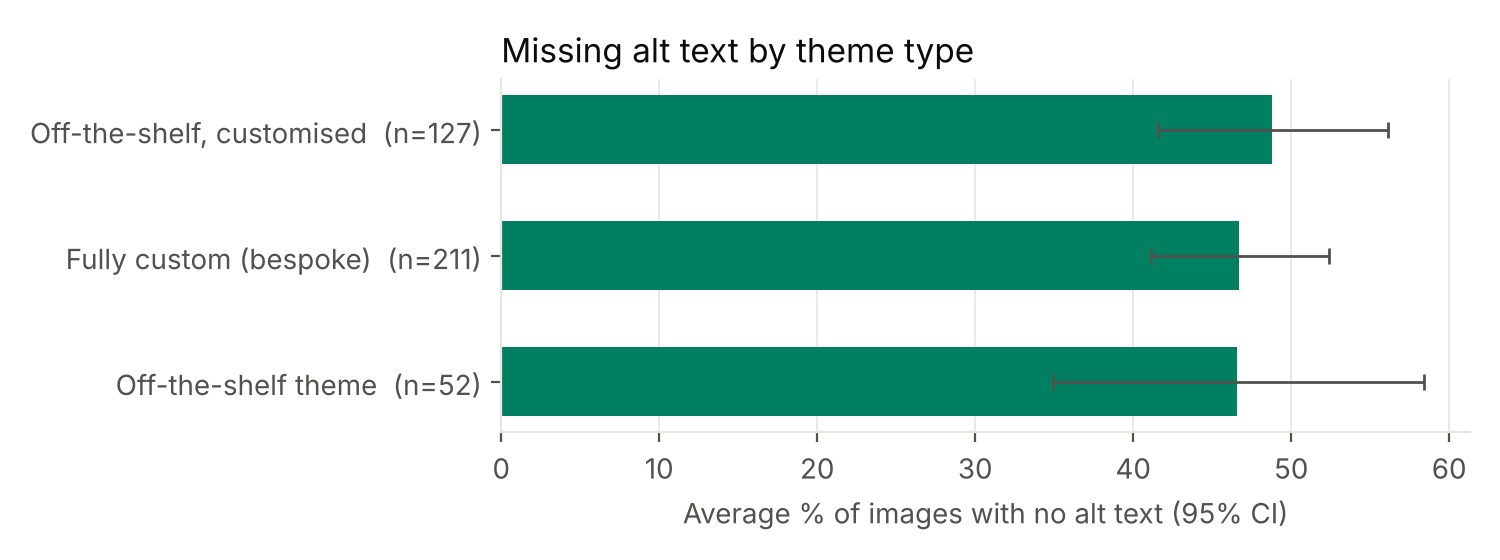
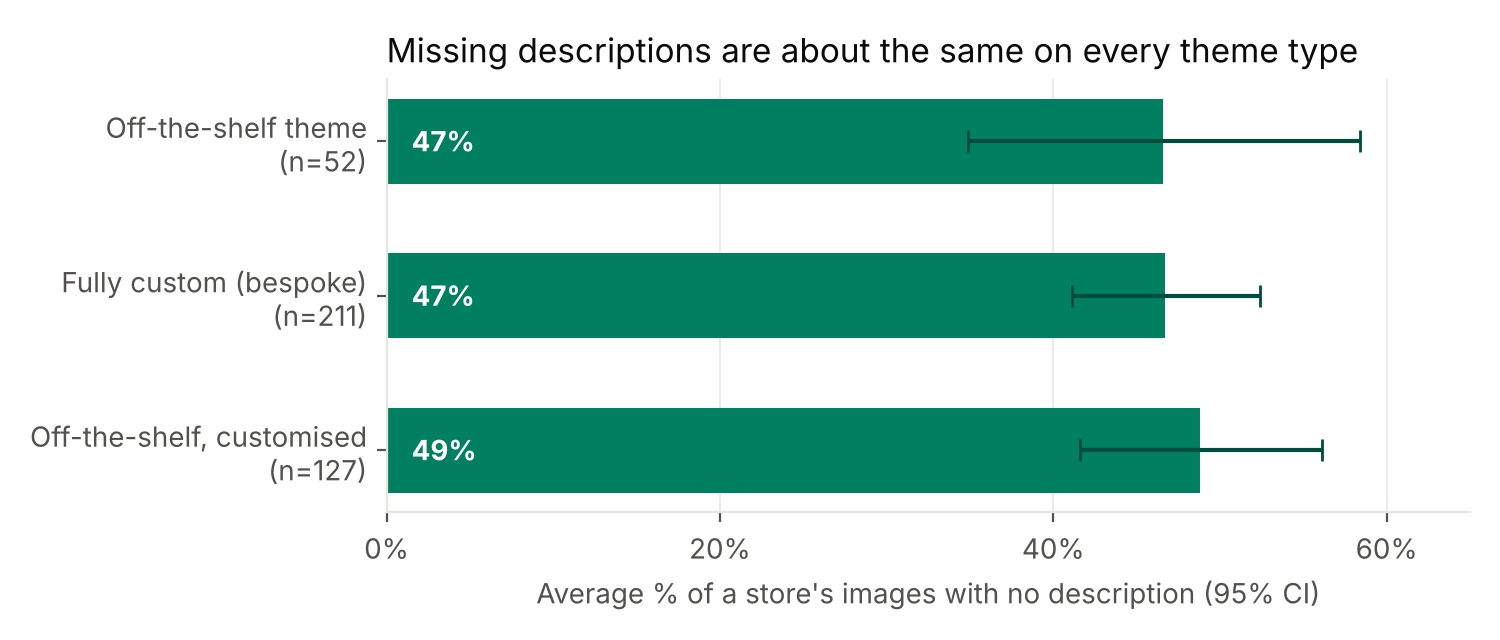
add theme chart to readme

diff --git a/README.md b/README.md
@@ -94,6 +94,8 @@ Share of stores where axe-core detected at least one barrier:
 #### 🧩 3. It's a merchant habit, not a theme problem
 With 12 stores, off-the-shelf themes looked twice as good. With 52, the effect disappeared. A regression on 390 stores (theme, store size, brand vs. smaller merchant, category) found no significant predictors *(all p > 0.4, R² = 0.09)*. So the fix belongs where merchants add products, not in themes.
 
+![Missing descriptions by theme type](analysis/charts/2_missing_by_theme.png)
+
 ---
 
 ## ✨ AltWise: extending Shopify Sidekick to accessibility
